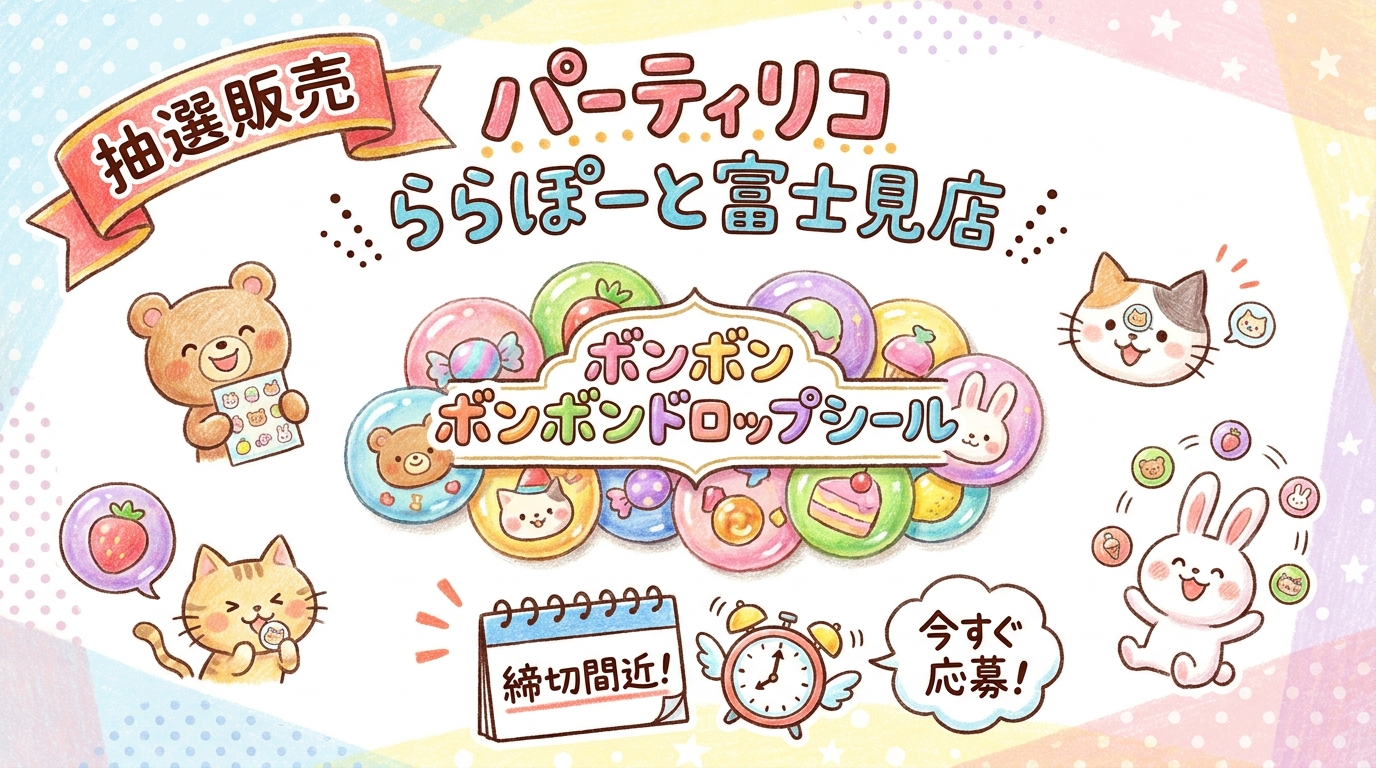
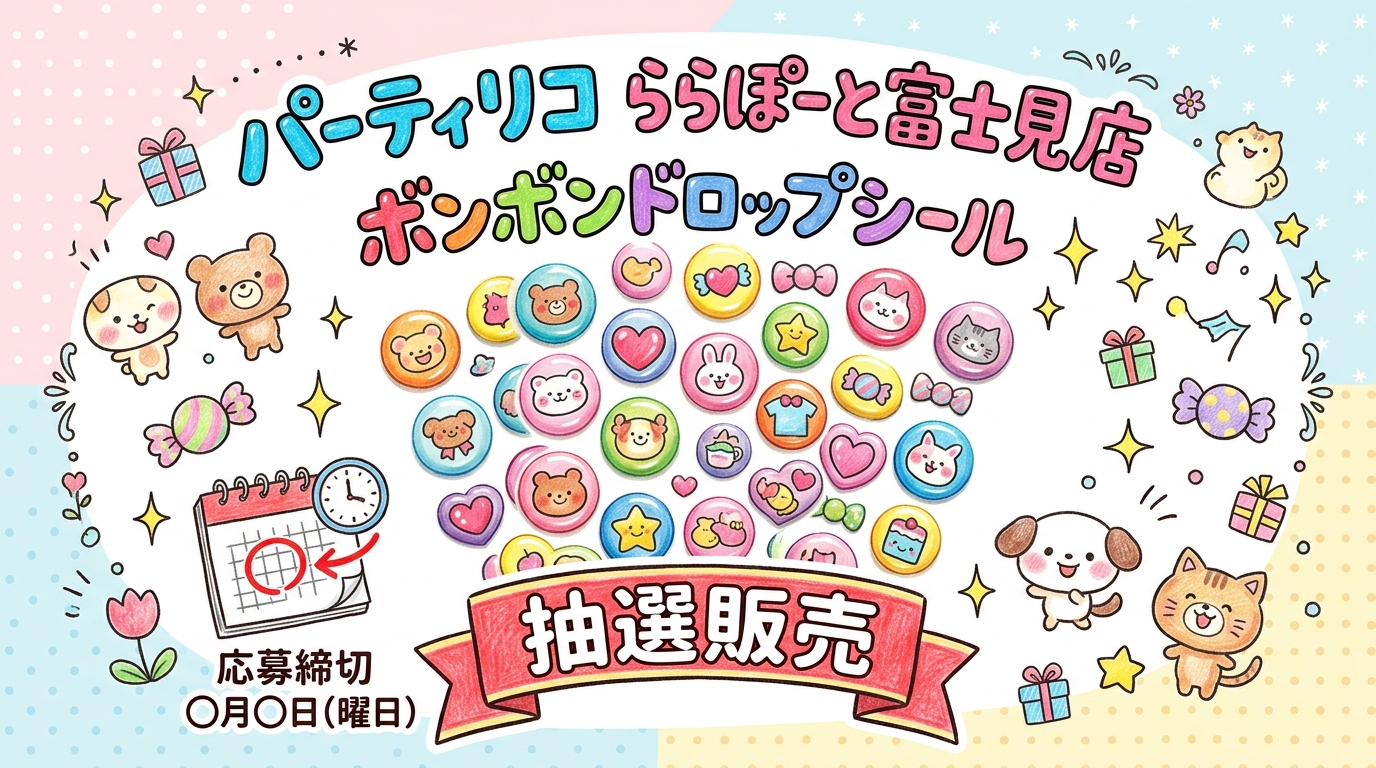
chore: 画像生成モデルをgemini-3.1-flash-image-previewに変更

diff --git a/scripts/newreleases/generate-images.js b/scripts/newreleases/generate-images.js
@@ -36,7 +36,7 @@ const genAI = new GoogleGenerativeAI(process.env.GEMINI_API_KEY);
 
 // 画像生成モデル
 const imageModel = genAI.getGenerativeModel({
-  model: 'gemini-3-pro-image-preview',
+  model: 'gemini-3.1-flash-image-preview',
   generationConfig: {
     responseModalities: ['IMAGE']
   }
